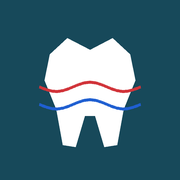
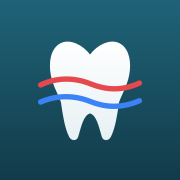
Add files via upload
แก้ไขแป้นพิมพ์ แก้ระบบฟังเสียง แก้ไอคอน

Changed region(s): [[0.1944, 0.1944, 0.8056, 0.8333], [0.0, 0.0, 1.0, 0.1389]]

diff --git a/index.html b/index.html
@@ -129,22 +129,42 @@ textarea{width:100%;min-height:74px;resize:vertical}
 .heard b{color:var(--ink);font-weight:600}
 .heard .bad{color:var(--warn)}
 
-.numpad{display:grid;grid-template-columns:repeat(5,minmax(0,1fr));gap:6px;margin-top:2px}
 .numbtn{min-height:52px;border:1px solid var(--line2);background:var(--surface);border-radius:12px;
   font:700 20px var(--mono);color:var(--ink)}
 .numbtn:active{background:var(--accent);color:var(--accent-ink)}
 .numbtn.wide{font-size:17px}
 .numbtn.neg{color:var(--warn);border-color:var(--warn);font-size:24px}
 .numbtn.neg.on{background:var(--warn);color:#fff}
-.numbtn.act{font:600 14px var(--font);grid-column:span 1}
+.numbtn.act{font:600 14px var(--font)}
 .numbtn.pgb{display:none;min-height:60px;flex-direction:column;align-items:center;justify-content:center;line-height:1.15}
 .numbtn.pgb b{font:700 20px var(--mono)}
 .numbtn.pgb small{font:500 11px var(--font);color:var(--muted)}
-.numpad[data-mode="prog"]{grid-template-columns:repeat(4,minmax(0,1fr))}
-.numpad[data-mode="prog"] .numbtn:not(.pgb):not(.act){display:none}
-.numpad[data-mode="prog"] .pgb{display:flex}
 .numpad[data-mode="none"]{display:none}
-@media (max-width:520px){.numpad{grid-template-columns:repeat(4,minmax(0,1fr))}}
+/* แป้นแบบโทรศัพท์: ตำแหน่ง 1-15 และ 0 เหมือนกันทุกแป้น RE มีคอลัมน์ค่าลบเพิ่มทางซ้าย */
+.numpad{display:grid;gap:6px;margin:0}
+.numpad .numbtn{display:none;min-width:0;padding:0}
+.numpad .numbtn.kneg{font:700 24px var(--font)}
+.numpad[data-mode="re"] .numbtn:not(.pgb),
+.numpad[data-mode="pd"] .numbtn:not(.pgb):not(.neg),
+.numpad[data-mode="small"] :is(.k0,.k1,.k2,.k3,.act),
+.numpad[data-mode="prog"] .act{display:block}
+.numpad[data-mode="prog"] .pgb{display:flex}
+.k0{grid-area:k0}.k1{grid-area:k1}.k2{grid-area:k2}.k3{grid-area:k3}.k4{grid-area:k4}.k5{grid-area:k5}.k6{grid-area:k6}.k7{grid-area:k7}
+.k8{grid-area:k8}.k9{grid-area:k9}.k10{grid-area:k10}.k11{grid-area:k11}.k12{grid-area:k12}.k13{grid-area:k13}.k14{grid-area:k14}.k15{grid-area:k15}
+.n1{grid-area:n1}.n2{grid-area:n2}.n3{grid-area:n3}.n4{grid-area:n4}.n5{grid-area:n5}.kneg{grid-area:neg}
+.kundo{grid-area:undo}.kskip{grid-area:skip}.kmiss{grid-area:miss}.kkb{grid-area:kb}.p1{grid-area:p1}.p2{grid-area:p2}.p3{grid-area:p3}.p4{grid-area:p4}
+.numpad[data-mode="re"]{grid-template-columns:repeat(5,minmax(0,1fr));grid-template-areas:
+  "n1 k1 k2 k3 undo" "n2 k4 k5 k6 undo" "n3 k7 k8 k9 skip" "n4 k10 k11 k12 miss" "n5 k13 k14 k15 kb" "neg k0 k0 k0 k0"}
+.numpad[data-mode="pd"]{grid-template-columns:repeat(4,minmax(0,1fr));grid-template-areas:
+  "k1 k2 k3 undo" "k4 k5 k6 undo" "k7 k8 k9 skip" "k10 k11 k12 miss" "k13 k14 k15 kb" "k0 k0 k0 k0"}
+.numpad[data-mode="small"]{grid-template-columns:repeat(4,minmax(0,1fr));grid-template-areas:
+  "k1 k2 k3 undo" "k0 k0 k0 skip" "miss miss kb kb"}
+.numpad[data-mode="prog"]{grid-template-columns:repeat(4,minmax(0,1fr));grid-template-areas:"p1 p2 p3 p4" "miss skip undo kb"}
+/* รายการค่าที่เพิ่งบันทึก (แท็บเล็ต) */
+.recent{display:none;align-content:start;gap:5px;min-height:0;overflow-y:auto}
+.recent h4{margin:0 0 2px;font-size:13px}
+.recent button{display:block;width:100%;text-align:left;border:0;border-radius:7px;background:var(--bg);color:var(--muted);padding:5px 10px;font-size:13px;min-height:30px}
+.recent button:first-of-type{background:var(--cur-soft);color:var(--ink);font-weight:600}
 .legend{display:flex;flex-wrap:wrap;gap:6px 20px;font-size:13px;color:var(--muted);margin:6px 2px 10px}
 .legend span{display:inline-flex;align-items:center;gap:7px}
 .legend svg{width:34px;height:12px}
@@ -237,33 +257,31 @@ body.exam .where{font:600 15px var(--font);padding:9px 12px;flex:1 1 auto}
 body.exam .lchips{display:flex;gap:6px;overflow-x:auto;scrollbar-width:none;-webkit-overflow-scrolling:touch}
 body.exam .lchips::-webkit-scrollbar{display:none}
 body.exam .lchips .chip{min-height:34px;padding:4px 12px;font-size:13px;flex:none}
-body.exam .pad{position:fixed;left:0;right:0;bottom:0;z-index:30;margin:0;border-width:1px 0 0;border-radius:16px 16px 0 0;
+body.exam .pad{grid-template-areas:"cmd" "heard" "num";position:fixed;left:0;right:0;bottom:0;z-index:30;margin:0;border-width:1px 0 0;border-radius:16px 16px 0 0;
   padding:8px 10px calc(8px + env(safe-area-inset-bottom,0px));gap:6px;box-shadow:0 -6px 20px rgba(10,30,40,.14)}
 body.exam .wrap{padding-bottom:calc(var(--padH,280px) + 24px)}
 body.exam #toast{bottom:calc(var(--padH,280px) + 12px)}
+body.exam .cmdbox{grid-area:cmd}body.exam .heard{grid-area:heard}body.exam .numpad{grid-area:num}body.exam .recent{grid-area:recent}
 body.exam .heard{font-size:12px;white-space:nowrap;overflow:hidden;text-overflow:ellipsis;min-height:18px}
-body.exam .numpad{grid-template-columns:repeat(6,minmax(0,1fr));gap:6px;margin:0}
-body.exam .numbtn{min-height:46px}
-body.exam .numbtn.undo{grid-column:span 2}
-body.exam .numpad[data-mode="prog"]{grid-template-columns:repeat(4,minmax(0,1fr))}
-body.exam .numpad[data-mode="prog"] .numbtn.undo{grid-column:span 1}
+body.exam .numbtn{min-height:44px}
 @media (max-width:599px){.lab{flex-basis:44px}}
 @media (min-width:600px){
-  body.exam .pad{padding-left:16px;padding-right:16px}
-  body.exam .numpad{grid-template-columns:repeat(12,minmax(0,1fr))}
+  body.exam .pad{padding-left:16px;padding-right:16px;grid-template-columns:minmax(0,1fr) 440px;column-gap:20px;
+    grid-template-areas:"cmd cmd" "heard num" "recent num";grid-template-rows:auto auto 1fr}
+  body.exam .recent{display:grid}
+  body.exam .numpad{gap:7px}
   body.exam .numbtn{min-height:54px}
 }
 @media (min-width:900px) and (orientation:landscape){
   body.exam{padding-right:340px}
   body.exam .wrap{padding-bottom:48px}
   body.exam #toast{bottom:calc(20px + env(safe-area-inset-bottom,0px));left:calc(50% - 170px)}
-  body.exam .pad{left:auto;top:0;width:340px;border-width:0 0 0 1px;border-radius:0;align-content:start;overflow-y:auto;
+  body.exam .pad{grid-template-columns:1fr;grid-template-areas:"heard" "cmd" "num" "recent";grid-template-rows:auto auto auto 1fr;
+    left:auto;top:0;width:340px;border-width:0 0 0 1px;border-radius:0;align-content:start;overflow-y:auto;
     padding:calc(14px + env(safe-area-inset-top,0px)) 16px calc(16px + env(safe-area-inset-bottom,0px));box-shadow:-6px 0 20px rgba(10,30,40,.10)}
-  body.exam .heard{white-space:normal;font-size:13px}
-  body.exam .numpad{grid-template-columns:repeat(4,minmax(0,1fr));gap:8px}
+  body.exam .heard{white-space:normal;font-size:13px;background:var(--cur-soft);border-radius:8px;padding:6px 10px;color:var(--ink)}
+  body.exam .numpad{gap:8px}
   body.exam .numbtn{min-height:60px}
-  body.exam .numbtn.kb{order:1}
-  body.exam .numbtn.act:not(.kb){order:2}
 }
 @media (max-width:700px){
   .wrap{padding:0 10px 40px}
@@ -313,35 +331,39 @@ body.exam .numpad[data-mode="prog"] .numbtn.undo{grid-column:span 1}
     <button class="btn" id="send" type="button">ส่ง</button>
   </div>
   <div class="heard" id="heard">เลือกโซนและขั้นตอน แล้วกดเริ่มฟัง หรือกดช่องในตารางเพื่อเริ่มจากช่องนั้น</div>
-  <div class="numpad" id="numpad">
-    <button class="numbtn pgb" data-a="numprog" data-c="F"><b>1 F</b><small>Favourable</small></button>
-    <button class="numbtn pgb" data-a="numprog" data-c="Q"><b>2 Q</b><small>Questionable</small></button>
-    <button class="numbtn pgb" data-a="numprog" data-c="U"><b>3 U</b><small>Unfavourable</small></button>
-    <button class="numbtn pgb" data-a="numprog" data-c="H"><b>4 H</b><small>Hopeless</small></button>
-    <button class="numbtn" data-a="numval" data-v="0">0</button>
-    <button class="numbtn" data-a="numval" data-v="1">1</button>
-    <button class="numbtn" data-a="numval" data-v="2">2</button>
-    <button class="numbtn" data-a="numval" data-v="3">3</button>
-    <button class="numbtn" data-a="numval" data-v="4">4</button>
-    <button class="numbtn" data-a="numval" data-v="5">5</button>
-    <button class="numbtn" data-a="numval" data-v="6">6</button>
-    <button class="numbtn" data-a="numval" data-v="7">7</button>
-    <button class="numbtn" data-a="numval" data-v="8">8</button>
-    <button class="numbtn" data-a="numval" data-v="9">9</button>
-    <button class="numbtn wide" data-a="numval" data-v="10">10</button>
-    <button class="numbtn wide" data-a="numval" data-v="11">11</button>
-    <button class="numbtn wide" data-a="numval" data-v="12">12</button>
-    <button class="numbtn wide" data-a="numval" data-v="13">13</button>
-    <button class="numbtn wide" data-a="numval" data-v="14">14</button>
-    <button class="numbtn wide" data-a="numval" data-v="15">15</button>
-    <button class="numbtn neg" data-a="numval" data-v="-1">-1</button>
-    <button class="numbtn neg" data-a="numval" data-v="-2">-2</button>
-    <button class="numbtn neg" data-a="numneg" id="negBtn" aria-pressed="false" title="กดแล้วตามด้วยตัวเลข เพื่อใส่ค่าติดลบ">−</button>
-    <button class="numbtn act" data-a="nummiss">ฟันหาย</button>
-    <button class="numbtn act" data-a="numskip">ข้าม</button>
-    <button class="numbtn act undo" data-a="numundo">ย้อนกลับ</button>
-    <button class="numbtn act kb" data-a="numkb" id="kbBtn" aria-label="พิมพ์ด้วยคีย์บอร์ด" aria-pressed="false">⌨</button>
+  <div class="numpad" id="numpad" data-mode="none">
+    <button class="numbtn pgb p1" data-a="numprog" data-c="F"><b>1 F</b><small>Favourable</small></button>
+    <button class="numbtn pgb p2" data-a="numprog" data-c="Q"><b>2 Q</b><small>Questionable</small></button>
+    <button class="numbtn pgb p3" data-a="numprog" data-c="U"><b>3 U</b><small>Unfavourable</small></button>
+    <button class="numbtn pgb p4" data-a="numprog" data-c="H"><b>4 H</b><small>Hopeless</small></button>
+    <button class="numbtn k1" data-a="numval" data-v="1">1</button>
+    <button class="numbtn k2" data-a="numval" data-v="2">2</button>
+    <button class="numbtn k3" data-a="numval" data-v="3">3</button>
+    <button class="numbtn k4" data-a="numval" data-v="4">4</button>
+    <button class="numbtn k5" data-a="numval" data-v="5">5</button>
+    <button class="numbtn k6" data-a="numval" data-v="6">6</button>
+    <button class="numbtn k7" data-a="numval" data-v="7">7</button>
+    <button class="numbtn k8" data-a="numval" data-v="8">8</button>
+    <button class="numbtn k9" data-a="numval" data-v="9">9</button>
+    <button class="numbtn wide k10" data-a="numval" data-v="10">10</button>
+    <button class="numbtn wide k11" data-a="numval" data-v="11">11</button>
+    <button class="numbtn wide k12" data-a="numval" data-v="12">12</button>
+    <button class="numbtn wide k13" data-a="numval" data-v="13">13</button>
+    <button class="numbtn wide k14" data-a="numval" data-v="14">14</button>
+    <button class="numbtn wide k15" data-a="numval" data-v="15">15</button>
+    <button class="numbtn k0" data-a="numval" data-v="0">0</button>
+    <button class="numbtn neg n1" data-a="numval" data-v="-1">-1</button>
+    <button class="numbtn neg n2" data-a="numval" data-v="-2">-2</button>
+    <button class="numbtn neg n3" data-a="numval" data-v="-3">-3</button>
+    <button class="numbtn neg n4" data-a="numval" data-v="-4">-4</button>
+    <button class="numbtn neg n5" data-a="numval" data-v="-5">-5</button>
+    <button class="numbtn neg kneg" data-a="numneg" id="negBtn" aria-pressed="false" title="กดแล้วตามด้วยตัวเลข สำหรับค่าลบเกิน -5">−</button>
+    <button class="numbtn act kundo" data-a="numundo">ย้อนกลับ</button>
+    <button class="numbtn act kskip" data-a="numskip">ข้าม</button>
+    <button class="numbtn act kmiss" data-a="nummiss">ฟันหาย</button>
+    <button class="numbtn act kb kkb" data-a="numkb" id="kbBtn" aria-label="พิมพ์ด้วยคีย์บอร์ด" aria-pressed="false">⌨</button>
   </div>
+  <div class="recent" id="recent"></div>
 </div>
 
 <div class="legend">
@@ -374,7 +396,7 @@ body.exam .numpad[data-mode="prog"] .numbtn.undo{grid-column:span 1}
       <label class="f">ภาษาที่ไมค์ฟัง
         <select id="lang"><option value="th-TH">ไทย</option><option value="en-US">English</option></select></label>
       <label class="f">เลขสองหลักติดกัน (เช่น 12)
-        <select id="twoDigit"><option value="split">แยกเป็น 1 กับ 2</option><option value="join">รวมเป็นสิบสอง</option></select></label>
+        <select id="twoDigit"><option value="auto">อัตโนมัติ: 10 ถึง 15 นับเป็นเลขเดียว (แนะนำ)</option><option value="split">แยกทีละหลักเสมอ</option></select></label>
       <label class="f">อ่านค่าทวนหลังบันทึก
         <select id="tts"><option value="0">ปิด</option><option value="1">เปิด</option></select></label>
     </div>
@@ -436,7 +458,7 @@ const midOrder=q=>QT[q].slice().sort((a,b)=>(a%10)-(b%10));   // จากซี
 
 /* ==================== ตัวอ่านคำพูด ==================== */
 // ==PARSER-START==
-const settings={lang:'th-TH',twoDigit:'split',tts:false};
+const settings={lang:'th-TH',twoDigit:'auto',tts:false};
 const DW={'ศูนย์':0,'ซีโร่':0,'ซีโร':0,'หนึ่ง':1,'เอ็ด':1,'สอง':2,'ยี่':2,'สาม':3,'สี่':4,'ห้า':5,'หก':6,'เจ็ด':7,'แปด':8,'เก้า':9,
   'zero':0,'one':1,'two':2,'three':3,'four':4,'five':5,'six':6,'seven':7,'eight':8,'nine':9,'ten':10,'eleven':11,'twelve':12};
 const TOKSRC='ศูนย์|ซีโร่|ซีโร|หนึ่ง|เอ็ด|สอง|ยี่|สาม|สี่|ห้า|หก|เจ็ด|แปด|เก้า|สิบ|zero|one|two|three|four|five|six|seven|eight|nine|eleven|twelve|ten|\\d+|ลบ|minus|negative|(?<!\\d)-(?=\\d)';
@@ -446,10 +468,25 @@ function normalize(t){
     .replace(/[๐-๙]/g,d=>'๐๑๒๓๔๕๖๗๘๙'.indexOf(d))
     .replace(/[,;!?]/g,' ').replace(/\s+/g,' ').trim();
 }
+/* เลขที่ระบบถอดเสียงมาติดกัน เช่น "323" หรือ "10"
+   - ช่องที่ค่าไม่เกิน 9 (Mo, F, Prognosis): แยกทีละหลักเสมอ
+   - PD และ MGJ: "1" ตามด้วย 0-5 คือ 10-15 (PD 1 กับ 0 แทบไม่เกิดจริง) เช่น "10"=10, "3113"=3 11 3
+   - RE: รวมเฉพาะกรณีพูด 10-15 เป็นคำเดียว ("10" อยู่ลำพัง) ถ้าติดกับเลขอื่นให้แยก เพราะ RE 1 และ 0 เจอบ่อย */
 function splitDigits(run,tens){
   if(tens) return [parseInt(run,10)];
   if(run.length===1) return [+run];
-  if(run.length===2 && settings.twoDigit==='join' && +run>=10 && +run<=15) return [+run];
+  const p=(typeof cursor!=='undefined'&&cursor)?cursor.param:'';
+  if(settings.twoDigit!=='split'&&(p==='pd'||p==='mgj'||p==='re')){
+    if(run.length===2&&+run>=10&&+run<=15) return [+run];
+    if(p!=='re'){
+      const out=[];
+      for(let i=0;i<run.length;i++){
+        if(run[i]==='1'&&i+1<run.length&&run[i+1]<='5'){out.push(10+ +run[i+1]);i++;}
+        else out.push(+run[i]);
+      }
+      return out;
+    }
+  }
   return run.split('').map(Number);
 }
 function scanNumbers(s,opt){
@@ -1164,15 +1201,32 @@ function say(txt){
 }
 
 /* ==================== การแก้ไขข้อมูล ==================== */
+/* รายการค่าที่เพิ่งบันทึก แตะเพื่อกลับไปแก้ช่องนั้น */
+const recent=[];let recentId=0;
+function recentLabel(e){
+  let w=`ซี่ ${e.f}`;
+  if(e.param==='re'||e.param==='pd')w+=` ${({D:'D',C:'กลาง',M:'M'})[SITELAB[quadOf(e.f)][e.site]]}`+(e.surf==='L'?' (ลิ้น)':'');
+  if(e.param==='fu')w+=` ${e.a}F`;
+  if(e.param==='mgj')w+=' MGJ';
+  return `${w} ${e.param==='fu'||e.param==='mgj'?'':PNAME[e.param]+' '}= ${e.v}`;
+}
+function recentAdd(e){e.id=++recentId;recent.unshift(e);if(recent.length>12)recent.pop();renderRecent();return e.id;}
+function recentRemove(id){const i=recent.findIndex(x=>x.id===id);if(i>=0){recent.splice(i,1);renderRecent();}}
+function renderRecent(){
+  const el=document.getElementById('recent');if(!el)return;
+  el.innerHTML=recent.length?'<h4>บันทึกล่าสุด</h4>'+recent.map(e=>`<button type="button" data-rid="${e.id}">${esc(recentLabel(e))}</button>`).join(''):'';
+}
 function pushHist(fn){hist.push(fn);if(hist.length>800)hist.shift();}
 function setCell(f,surf,param,site,v){
   const prev=getV(f,surf,param,site);
   const snap={...cursor,tooth:f,site,done:false,q:quadOf(f)};
   putV(f,surf,param,site,String(v));
+  const rid=recentAdd({f,surf,param,site,v:String(v)});
   refreshCell(f,surf,param,site);
   if(param==='pd'||param==='re'){redraw(archOf(f),surf);refreshCalCell(f,surf,site);}
   if(param==='mgj'||param==='fu')refreshOptsView();
   pushHist(()=>{
+    recentRemove(rid);
     putV(f,surf,param,site,prev);refreshCell(f,surf,param,site);
     if(param==='pd'||param==='re'){redraw(archOf(f),surf);refreshCalCell(f,surf,site);}
     Object.assign(cursor,snap);renderCursor();refreshStats();save();
@@ -1183,7 +1237,8 @@ function setFu(f,a,v){
   const prev=T(f).fu[a];
   const snap={...cursor,tooth:f,site:0,done:false,q:quadOf(f)};
   T(f).fu[a]=String(v);refreshCell(f,null,'fu',0);refreshOptsView();
-  pushHist(()=>{T(f).fu[a]=prev;refreshCell(f,null,'fu',0);Object.assign(cursor,snap);renderCursor();save();});
+  const rid=recentAdd({f,param:'fu',a,site:fuSites(f).indexOf(a),v:String(v)});
+  pushHist(()=>{recentRemove(rid);T(f).fu[a]=prev;refreshCell(f,null,'fu',0);Object.assign(cursor,snap);renderCursor();save();});
   save();
 }
 const PSEV={F:0,Q:1,U:2,H:3};
@@ -1211,7 +1266,8 @@ function setProg(f,c){
   const prev=T(f).prog;
   const snap={...cursor,tooth:f,site:0,done:false,q:quadOf(f),param:'prog'};
   T(f).prog=c;refreshCell(f,null,'prog',0);
-  pushHist(()=>{T(f).prog=prev;refreshCell(f,null,'prog',0);Object.assign(cursor,snap);renderCursor();save();});
+  const rid=recentAdd({f,param:'prog',site:0,v:c});
+  pushHist(()=>{recentRemove(rid);T(f).prog=prev;refreshCell(f,null,'prog',0);Object.assign(cursor,snap);renderCursor();save();});
   save();
 }
 function moveNextTooth(){
@@ -1355,7 +1411,7 @@ function startListening(){
   // ปิดตัวฟังเก่าให้หมดก่อน กันมีตัวฟังซ้อนกัน 2 ตัวแล้วส่งข้อมูลซ้ำ
   if(rec){try{rec.onresult=rec.onend=rec.onerror=rec.onstart=null;rec.abort();}catch(_){}rec=null;}
   const gen=++recGen,r=new SR();rec=r;
-  r.lang=settings.lang;r.continuous=true;r.interimResults=true;r.maxAlternatives=1;
+  r.lang=settings.lang;r.continuous=!MOBILE_SR;r.interimResults=true;r.maxAlternatives=1;
   lastFinalIdx=-1;pendingInterim='';
   r.onstart=()=>{if(gen!==recGen)return;lastFinalIdx=-1;pendingInterim='';};
   r.onresult=e=>{
@@ -1393,19 +1449,15 @@ function startListening(){
 }
 /* กันประโยคซ้ำ: Chrome (โดยเฉพาะ Android) ส่ง final เดิมซ้ำ หรือส่งแบบสะสม (ข้อความเก่า + ข้อความใหม่) */
 let recGen=0,ttsUntil=0,lastFinalIdx=-1,pendingInterim='',lastFed={t:'',at:0};
+/* มือถือ/แท็บเล็ต: โหมดฟังต่อเนื่องของ Chrome Android และ Safari ส่งผลซ้ำหรือส่งข้อความสะสม (เก่า+ใหม่)
+   จึงฟังทีละประโยคแล้วเริ่มฟังใหม่อัตโนมัติแทน ผลแต่ละครั้งเป็นอิสระต่อกัน ไม่มีข้อความเก่าปนมา */
+const MOBILE_SR=/Android|iPhone|iPad|iPod/i.test(navigator.userAgent)||(navigator.maxTouchPoints>1&&/Macintosh/.test(navigator.userAgent));
 const micMuted=()=>Date.now()<ttsUntil||('speechSynthesis' in window&&speechSynthesis.speaking);
 function feedUtterance(raw){
   let t=normalize(raw||'');if(!t)return;
-  const now=Date.now(),prev=lastFed.t,fresh=now-lastFed.at<1500;
-  if(fresh&&prev){
-    if(t===prev){return;}                                   // ซ้ำเป๊ะ
-    if(t.startsWith(prev+' ')||(/^[\d\s-]+$/.test(t)&&t.replace(/\s/g,'').startsWith(prev.replace(/\s/g,''))&&t.length>prev.length)){
-      const rest=t.slice(prev.length).trim();               // สะสม: เอาเฉพาะส่วนที่เพิ่มมา
-      lastFed={t,at:now};
-      if(rest)handleUtterance(rest);
-      return;
-    }
-  }
+  const now=Date.now();
+  // ผลเดิมถูกส่งซ้ำติดกันภายในเสี้ยววินาที (บั๊กของเบราว์เซอร์) ทิ้ง; ถ้าห่างกว่านี้ถือว่าผู้ใช้พูดซ้ำจริง เช่น 3 แล้ว 3
+  if(t===lastFed.t&&now-lastFed.at<700){lastFed.at=now;return;}
   lastFed={t,at:now};
   handleUtterance(raw);
 }
@@ -1577,7 +1629,7 @@ function renderStage(){
 }
 function updateStageLive(){
   const np=document.getElementById('numpad');
-  if(np)np.dataset.mode=stage!==4?'none':(cursor.param==='prog'?'prog':'num');
+  if(np)np.dataset.mode=stage!==4?'none':({prog:'prog',re:'re',pd:'pd',mgj:'pd',mo:'small',fu:'small'}[cursor.param]||'pd');
   const t=document.getElementById('progTooth');
   if(t&&cursor.tooth)t.textContent=cursor.tooth;
   if(stage===4){
@@ -2007,6 +2059,14 @@ function bind(){
   const send=()=>{handleUtterance(cmd.value);cmd.value='';cmd.focus();};
   document.getElementById('send').addEventListener('click',send);
   cmd.addEventListener('keydown',e=>{if(e.key==='Enter'){e.preventDefault();send();}});
+  document.getElementById('recent').addEventListener('click',e=>{
+    const b=e.target.closest('[data-rid]');if(!b)return;
+    const it=recent.find(x=>x.id===+b.dataset.rid);if(!it||T(it.f).missing)return;
+    closeTyping();
+    cursor.param=it.param;cursor.q=quadOf(it.f);if(it.surf)cursor.surf=it.surf;
+    cursor.tooth=it.f;cursor.site=Math.max(0,it.site||0);cursor.done=false;
+    renderStage();renderCursor();toast(`แก้ ${recentLabel(it).split(' =')[0]}`);
+  });
   document.getElementById('lchips').addEventListener('click',e=>{const b=e.target.closest('[data-a]');if(b)act(b.dataset.a,b);});
   {const pad=document.getElementById('pad');const setH=()=>document.documentElement.style.setProperty('--padH',pad.offsetHeight+'px');
    if(window.ResizeObserver)new ResizeObserver(setH).observe(pad);window.addEventListener('resize',setH);setH();}

diff --git a/sw.js b/sw.js
@@ -1,6 +1,6 @@
 /* Service worker: ให้เปิดแอปได้แม้ไม่มีเน็ต และอัปเดตไฟล์เองเมื่อมีเน็ต
    เปลี่ยนเลขเวอร์ชันนี้ทุกครั้งที่อัปโหลด index.html ใหม่ เพื่อบังคับล้างแคชเก่า */
-const VERSION = 'perio-v6';
+const VERSION = 'perio-v9';
 const APP_FILES = ['./', './index.html', './manifest.webmanifest', './icon-192.png', './icon-512.png', './icon-maskable-512.png', './apple-touch-icon.png'];
 
 self.addEventListener('install', e => {
